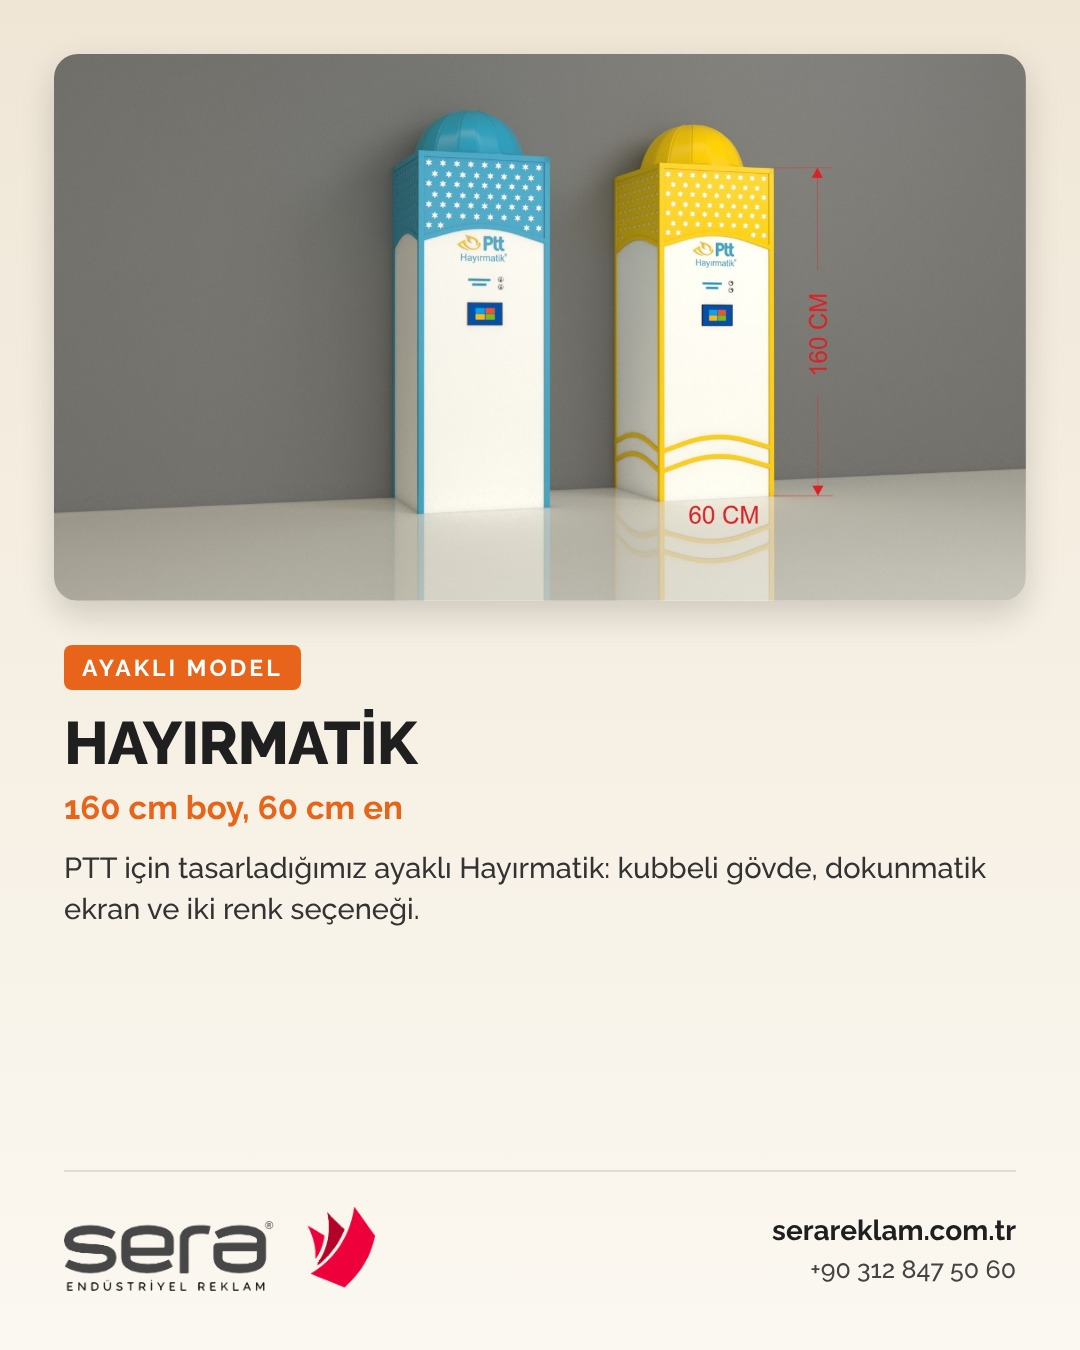
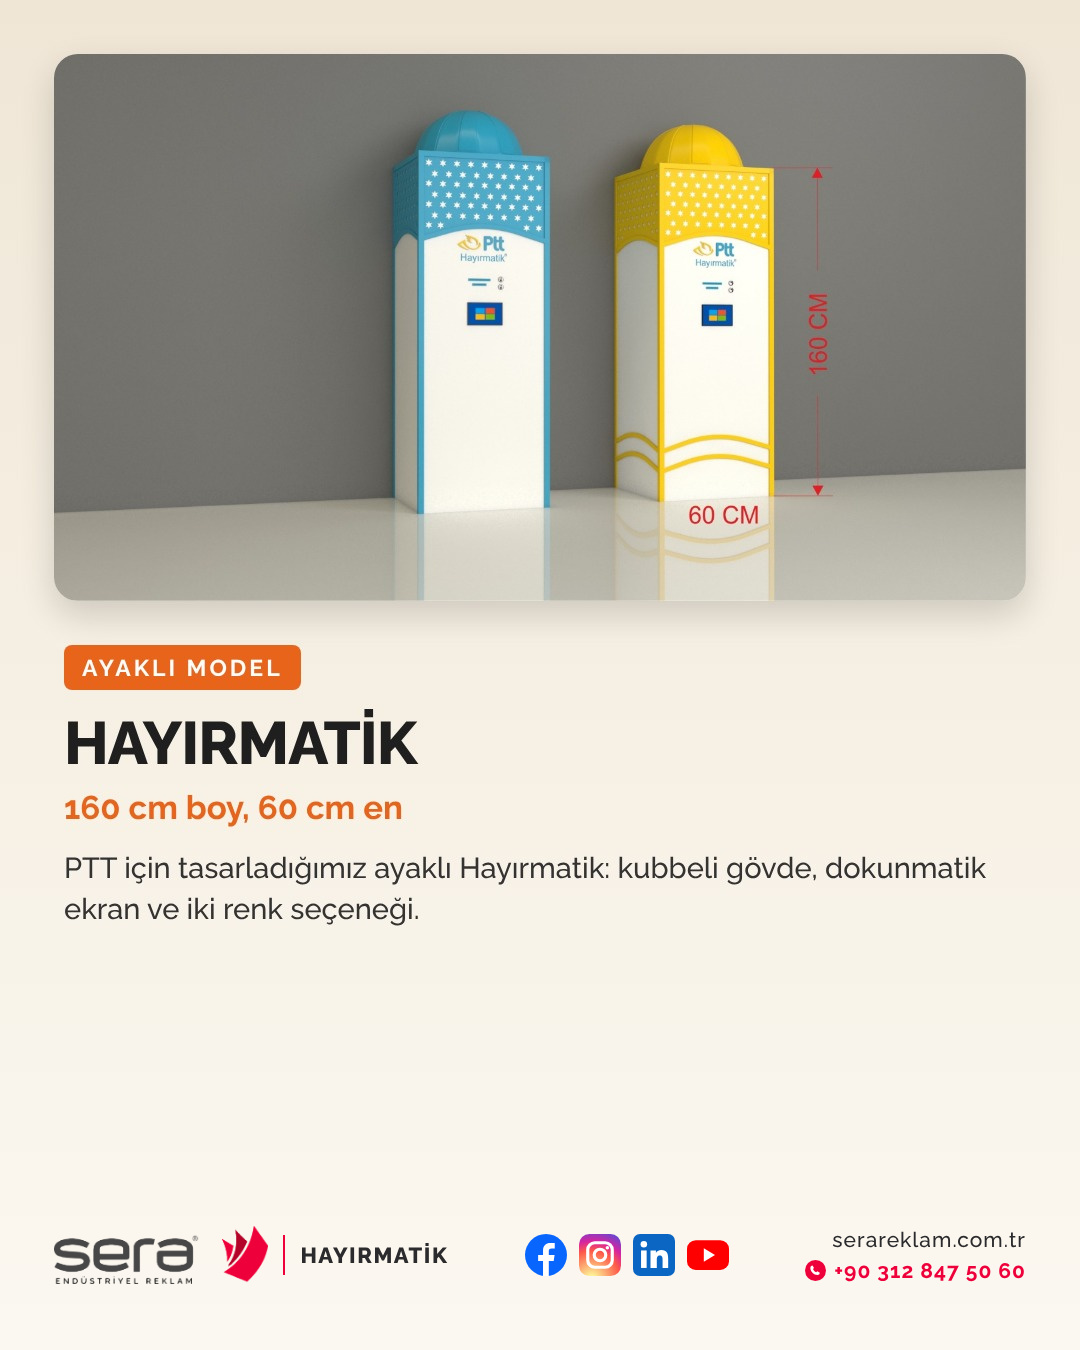
Hayırmatik: 18–24 Kasım görsellerinde imza satırı kurumsal kurala göre yenilendi (Ali Bey onaylı)
Claude-Session: https://claude.ai/code/session_01H7TtvUP4jhsd1Byhq4isLU

Changed region(s): [[0.0306, 0.9022, 0.3972, 0.9644], [0.7028, 0.9022, 0.9472, 0.9644], [0.4889, 0.9022, 0.6722, 0.9644]]

diff --git a/social/hayirmatik/template/footer.html b/social/hayirmatik/template/footer.html
@@ -1,0 +1,23 @@
+<html><head><meta charset=utf-8><style>
+@font-face{font-family:X;font-weight:500;src:url(fonts/node_modules/@fontsource/raleway/files/raleway-latin-ext-500-normal.woff2)}
+@font-face{font-family:X;font-weight:500;src:url(fonts/node_modules/@fontsource/raleway/files/raleway-latin-500-normal.woff2);unicode-range:U+0000-00FF,U+0131,U+2000-206F}
+@font-face{font-family:X;font-weight:700;src:url(fonts/node_modules/@fontsource/raleway/files/raleway-latin-ext-700-normal.woff2)}
+@font-face{font-family:X;font-weight:700;src:url(fonts/node_modules/@fontsource/raleway/files/raleway-latin-700-normal.woff2);unicode-range:U+0000-00FF,U+0131,U+2000-206F}
+@font-face{font-family:X;font-weight:800;src:url(fonts/node_modules/@fontsource/raleway/files/raleway-latin-ext-800-normal.woff2)}
+@font-face{font-family:X;font-weight:800;src:url(fonts/node_modules/@fontsource/raleway/files/raleway-latin-800-normal.woff2);unicode-range:U+0000-00FF,U+0131,U+2000-206F}
+html,body{margin:0;background:transparent}
+body{width:1080px;height:190px;font-family:X}
+.foot{width:1080px;height:190px;display:flex;align-items:center;justify-content:space-between;padding:0 54px;box-sizing:border-box}
+.l{display:flex;align-items:center;gap:15px}
+.l img{height:58px}
+.l .bar{width:2px;height:40px;background:#EE003A}
+.l .hm{font-weight:800;font-size:22px;letter-spacing:1.5px;color:#2b2b2d}
+.soc{display:flex;gap:12px}.soc svg{width:42px;height:42px;display:block}
+.c{color:#2b2b2d;text-align:right;font-size:21px;font-weight:500;letter-spacing:1px;line-height:1.5;white-space:nowrap}
+.c b{color:#EE003A;font-weight:700;display:inline-flex;align-items:center;gap:8px}
+.c b svg{width:21px;height:21px}
+</style></head><body><div class=foot>
+<div class=l><img src=logo_light.png><span class=bar></span><span class=hm>HAYIRMATİK</span></div>
+<div class=soc><svg viewBox="0 0 24 24"><circle cx="12" cy="12" r="12" fill="#0866FF"/><path fill="#fff" d="M13.6 24v-8.6h2.8l.5-3.4h-3.3V9.9c0-1 .3-1.6 1.7-1.6h1.7V5.2c-.3 0-1.3-.1-2.5-.1-2.5 0-4.2 1.5-4.2 4.3v2.6H7.5v3.4h2.8V24z"/></svg><svg viewBox="0 0 24 24"><defs><radialGradient id="ig" cx="30%" cy="107%" r="150%"><stop offset="0" stop-color="#fdf497"/><stop offset=".05" stop-color="#fdf497"/><stop offset=".45" stop-color="#fd5949"/><stop offset=".6" stop-color="#d6249f"/><stop offset=".9" stop-color="#285AEB"/></radialGradient></defs><rect width="24" height="24" rx="6" fill="url(#ig)"/><rect x="5" y="5" width="14" height="14" rx="4" fill="none" stroke="#fff" stroke-width="1.8"/><circle cx="12" cy="12" r="3.3" fill="none" stroke="#fff" stroke-width="1.8"/><circle cx="16.2" cy="7.8" r="1" fill="#fff"/></svg><svg viewBox="0 0 24 24"><rect width="24" height="24" rx="4" fill="#0A66C2"/><rect x="4.6" y="9.4" width="3.2" height="10" fill="#fff"/><circle cx="6.2" cy="5.9" r="1.85" fill="#fff"/><path fill="#fff" d="M10 9.4h3.1v1.4c.4-.8 1.5-1.6 3.1-1.6 3.3 0 3.9 2.2 3.9 5v5.2h-3.2v-4.6c0-1.1 0-2.5-1.5-2.5s-1.8 1.2-1.8 2.4v4.7H10z"/></svg><svg viewBox="0 0 24 24"><rect x="0" y="3.5" width="24" height="17" rx="5" fill="#FF0000"/><path fill="#fff" d="M9.6 8.2v7.6l6.4-3.8z"/></svg></div>
+<div class=c>serareklam.com.tr<br><b><svg viewBox="0 0 24 24"><circle cx="12" cy="12" r="12" fill="#EE003A"/><path fill="#fff" d="M8.6 6.2l1.7 2.9-1.2 1.2c.8 1.7 2 2.9 3.7 3.7l1.2-1.2 2.9 1.7c-.2 1.5-1.1 2.6-2.5 2.6-4.4 0-8.300-3.900-8.300-8.300 0-1.400 1.100-2.400 2.500-2.600z"/></svg>+90 312 847 50 60</b></div>
+</div></body></html>

diff --git a/social/hayirmatik/template/build.py b/social/hayirmatik/template/build.py
@@ -1,0 +1,17 @@
+import sys,glob,os
+from PIL import Image
+from playwright.sync_api import sync_playwright
+here=os.path.dirname(os.path.abspath(__file__))
+with sync_playwright() as p:
+    b=p.chromium.launch(); pg=b.new_page(viewport={'width':1080,'height':190})
+    pg.goto('file://'+here+'/footer.html'); pg.wait_for_timeout(600)
+    pg.screenshot(path=here+'/footer.png',omit_background=True); b.close()
+ft=Image.open(here+'/footer.png').convert('RGBA')
+os.makedirs(here+'/out',exist_ok=True)
+for f in sorted(glob.glob(sys.argv[1]+'/*.jpg')):
+    im=Image.open(f).convert('RGB')
+    for y in range(1150,1350):
+        im.paste(im.getpixel((20,y)),(0,y,1080,y+1))
+    im.paste(ft,(0,1160),ft)
+    im.save(here+'/out/'+os.path.basename(f),quality=95,subsampling=0)
+    print(f)

diff --git a/social/hayirmatik/NOTLAR.md b/social/hayirmatik/NOTLAR.md
@@ -17,3 +17,9 @@ Not: 17.11.2026 ilk gönderide ortadaki ikonlar eksikti ve ayırıcı çizgi var
 - photos/turuncu-makine-01.jpg: gerçek makine fotoğrafı (paylaşılabilir).
 - photos/ptt-teklif-cizimleri/: PTT logolu teklif çizimleri. PTT izni olmadan PAYLAŞILMAZ.
 - Marka: HAYIRMATİK 2012 22718 (09.03.2032'ye kadar), BAĞIŞMATİK 2011 69221 (24.08.2031'e kadar), sahibi Sera Reklamcılık.
+
+## İmza satırı düzeltmesi (18 Kasım 2026 – Ali Bey "Uygun" dedi)
+- approved/2026-11-18 … 2026-11-24 görsellerinin imza satırı kurala göre yenilendi: solda Sera logosu + "HAYIRMATİK", ortada orijinal renkli 4 ikon, sağda site + kırmızı telefon, ayırıcı çizgi yok. Görsellerin üst kısmı değişmedi.
+- Kaynak: template/footer.html + template/build.py (Raleway: npm @fontsource/raleway; logo: social/sera/template/logo_light.png). Yeni tasarımlarda bu imza satırı kullanılır.
+- 17 Kasım'da paylaşılan tanıtım görseli (eski imza satırıyla) kayıt olarak olduğu gibi bırakıldı.
+- AÇIK SORU: 2026-11-18 görselinde PTT logosu var; PTT izni Ali Bey'e soruldu, yanıt bekleniyor.
